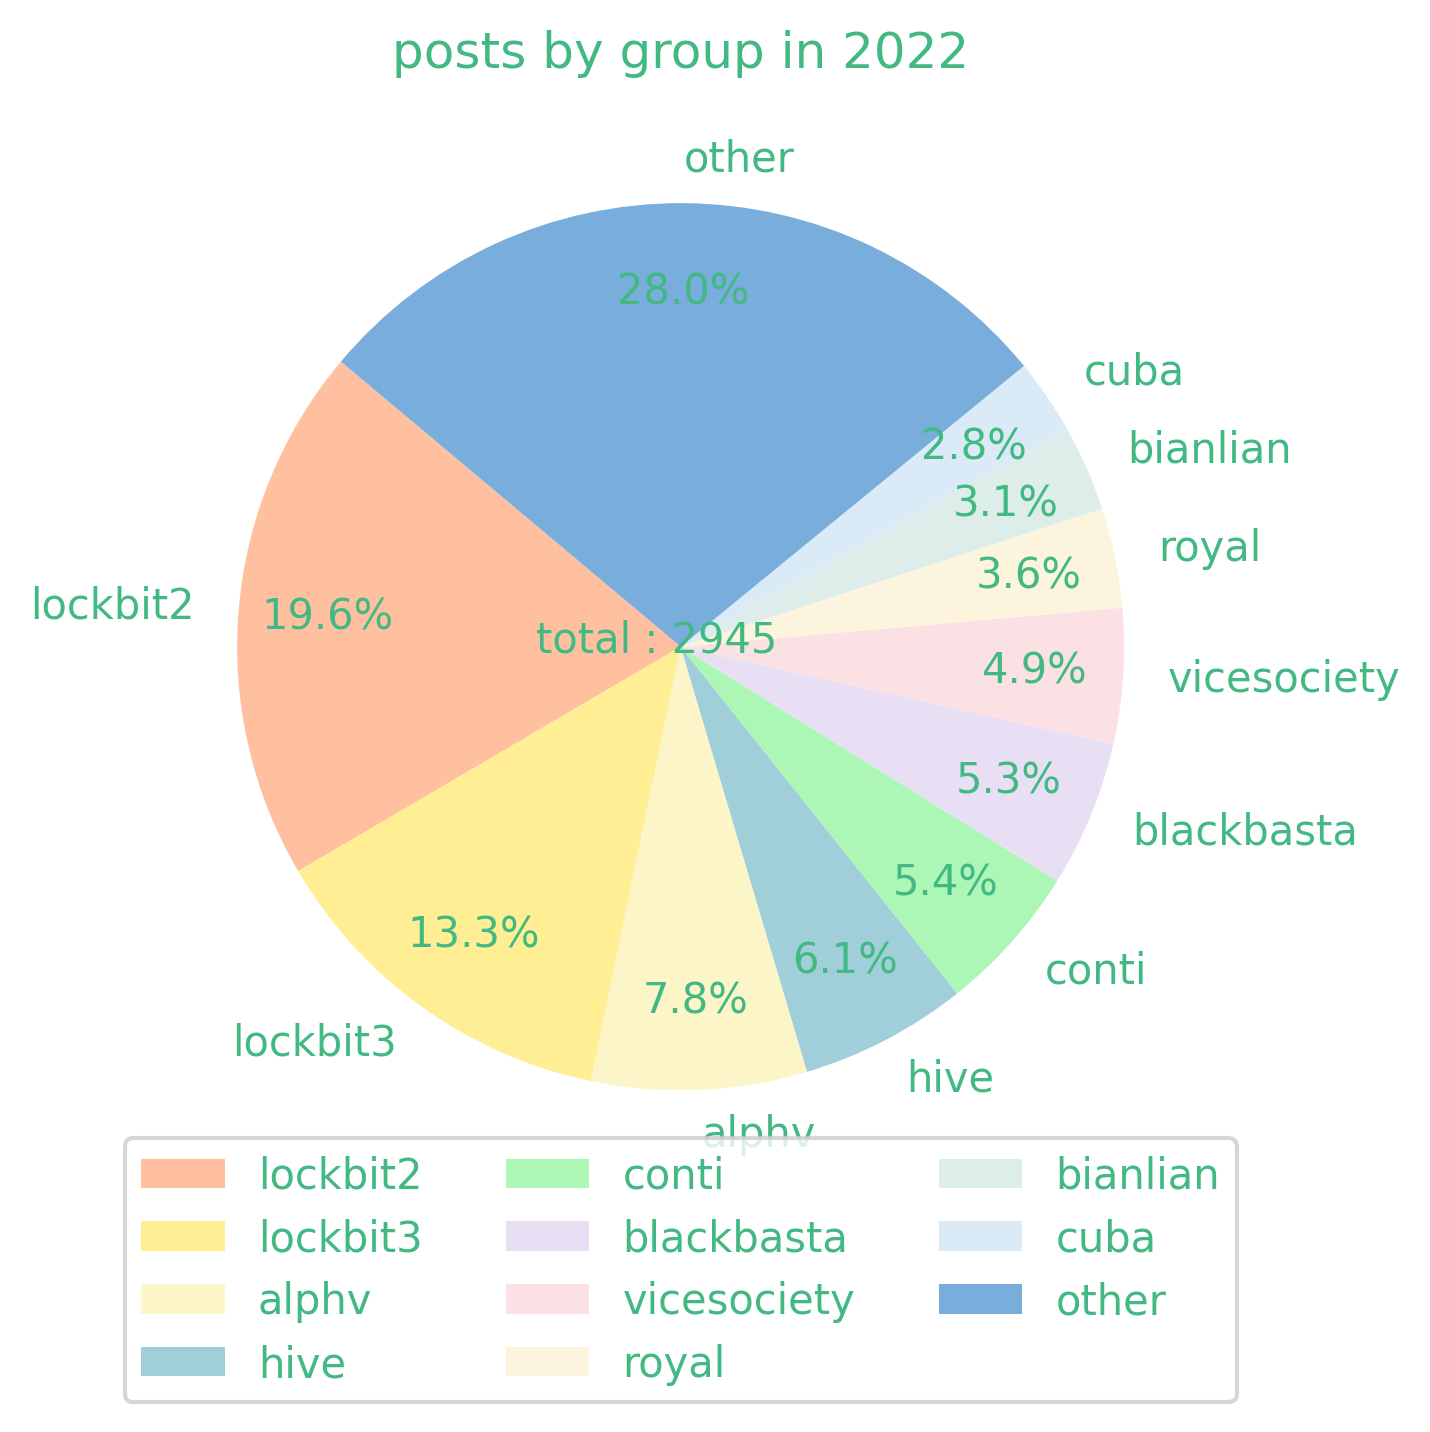
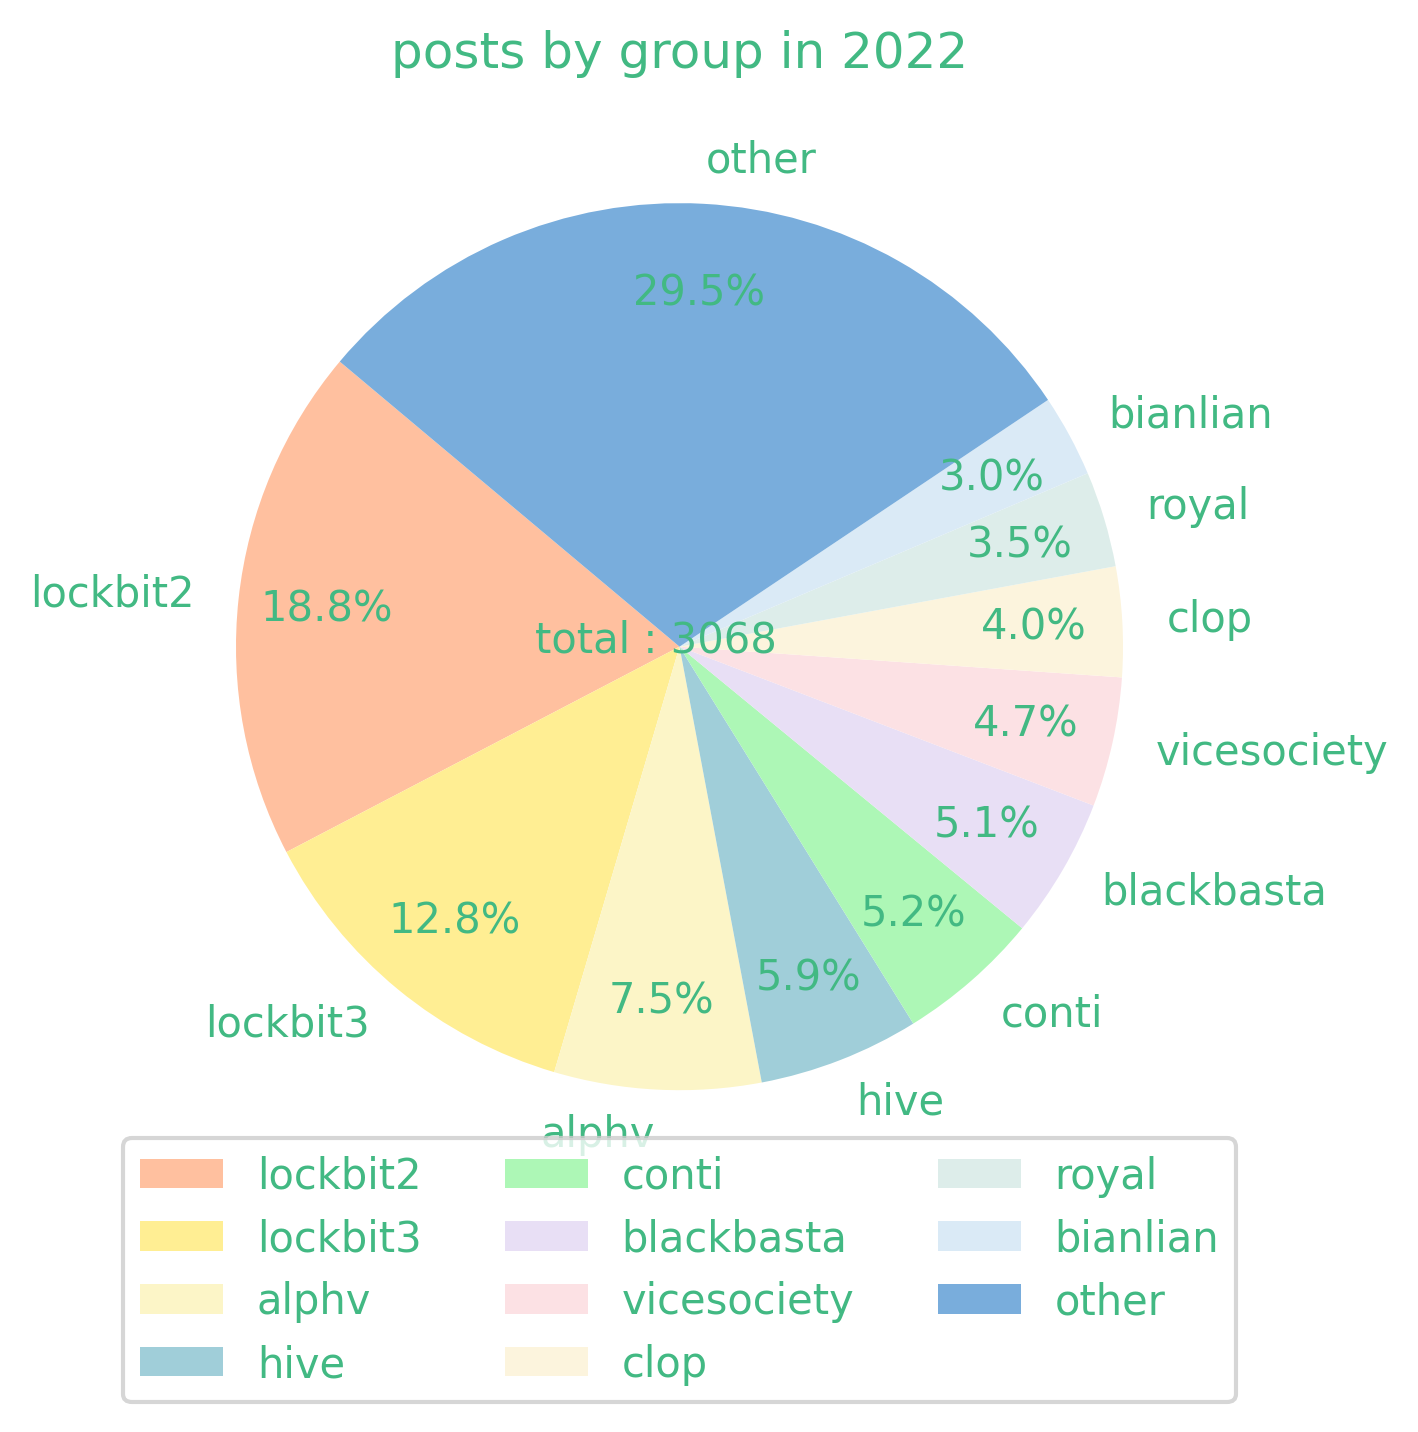
update graphs

diff --git a/plotting.py b/plotting.py
@@ -227,7 +227,7 @@ def pie_posts_by_group_by_year(year):
     posts = openjson('posts.json')
     group_counts = gcountYear(posts,year)
     group_counts = sorted(group_counts.items(), key=lambda x: x[1], reverse=True)
-    group_counts = [x for x in group_counts if x[0] != 'clop']
+    group_counts = [x for x in group_counts]
     groups = [x[0] for x in group_counts]
     counts = [x[1] for x in group_counts]
     # ignoring the top 10 groups, merge the rest into "other"

diff --git a/markdown.py b/markdown.py
@@ -508,3 +508,4 @@ def main():
         pie_posts_by_group_by_year(2023)
     else:
         stdlog('posts.json has not been modified within the last 45 mins, assuming no new posts discovered')
+    pie_posts_by_group_by_year(2022)
